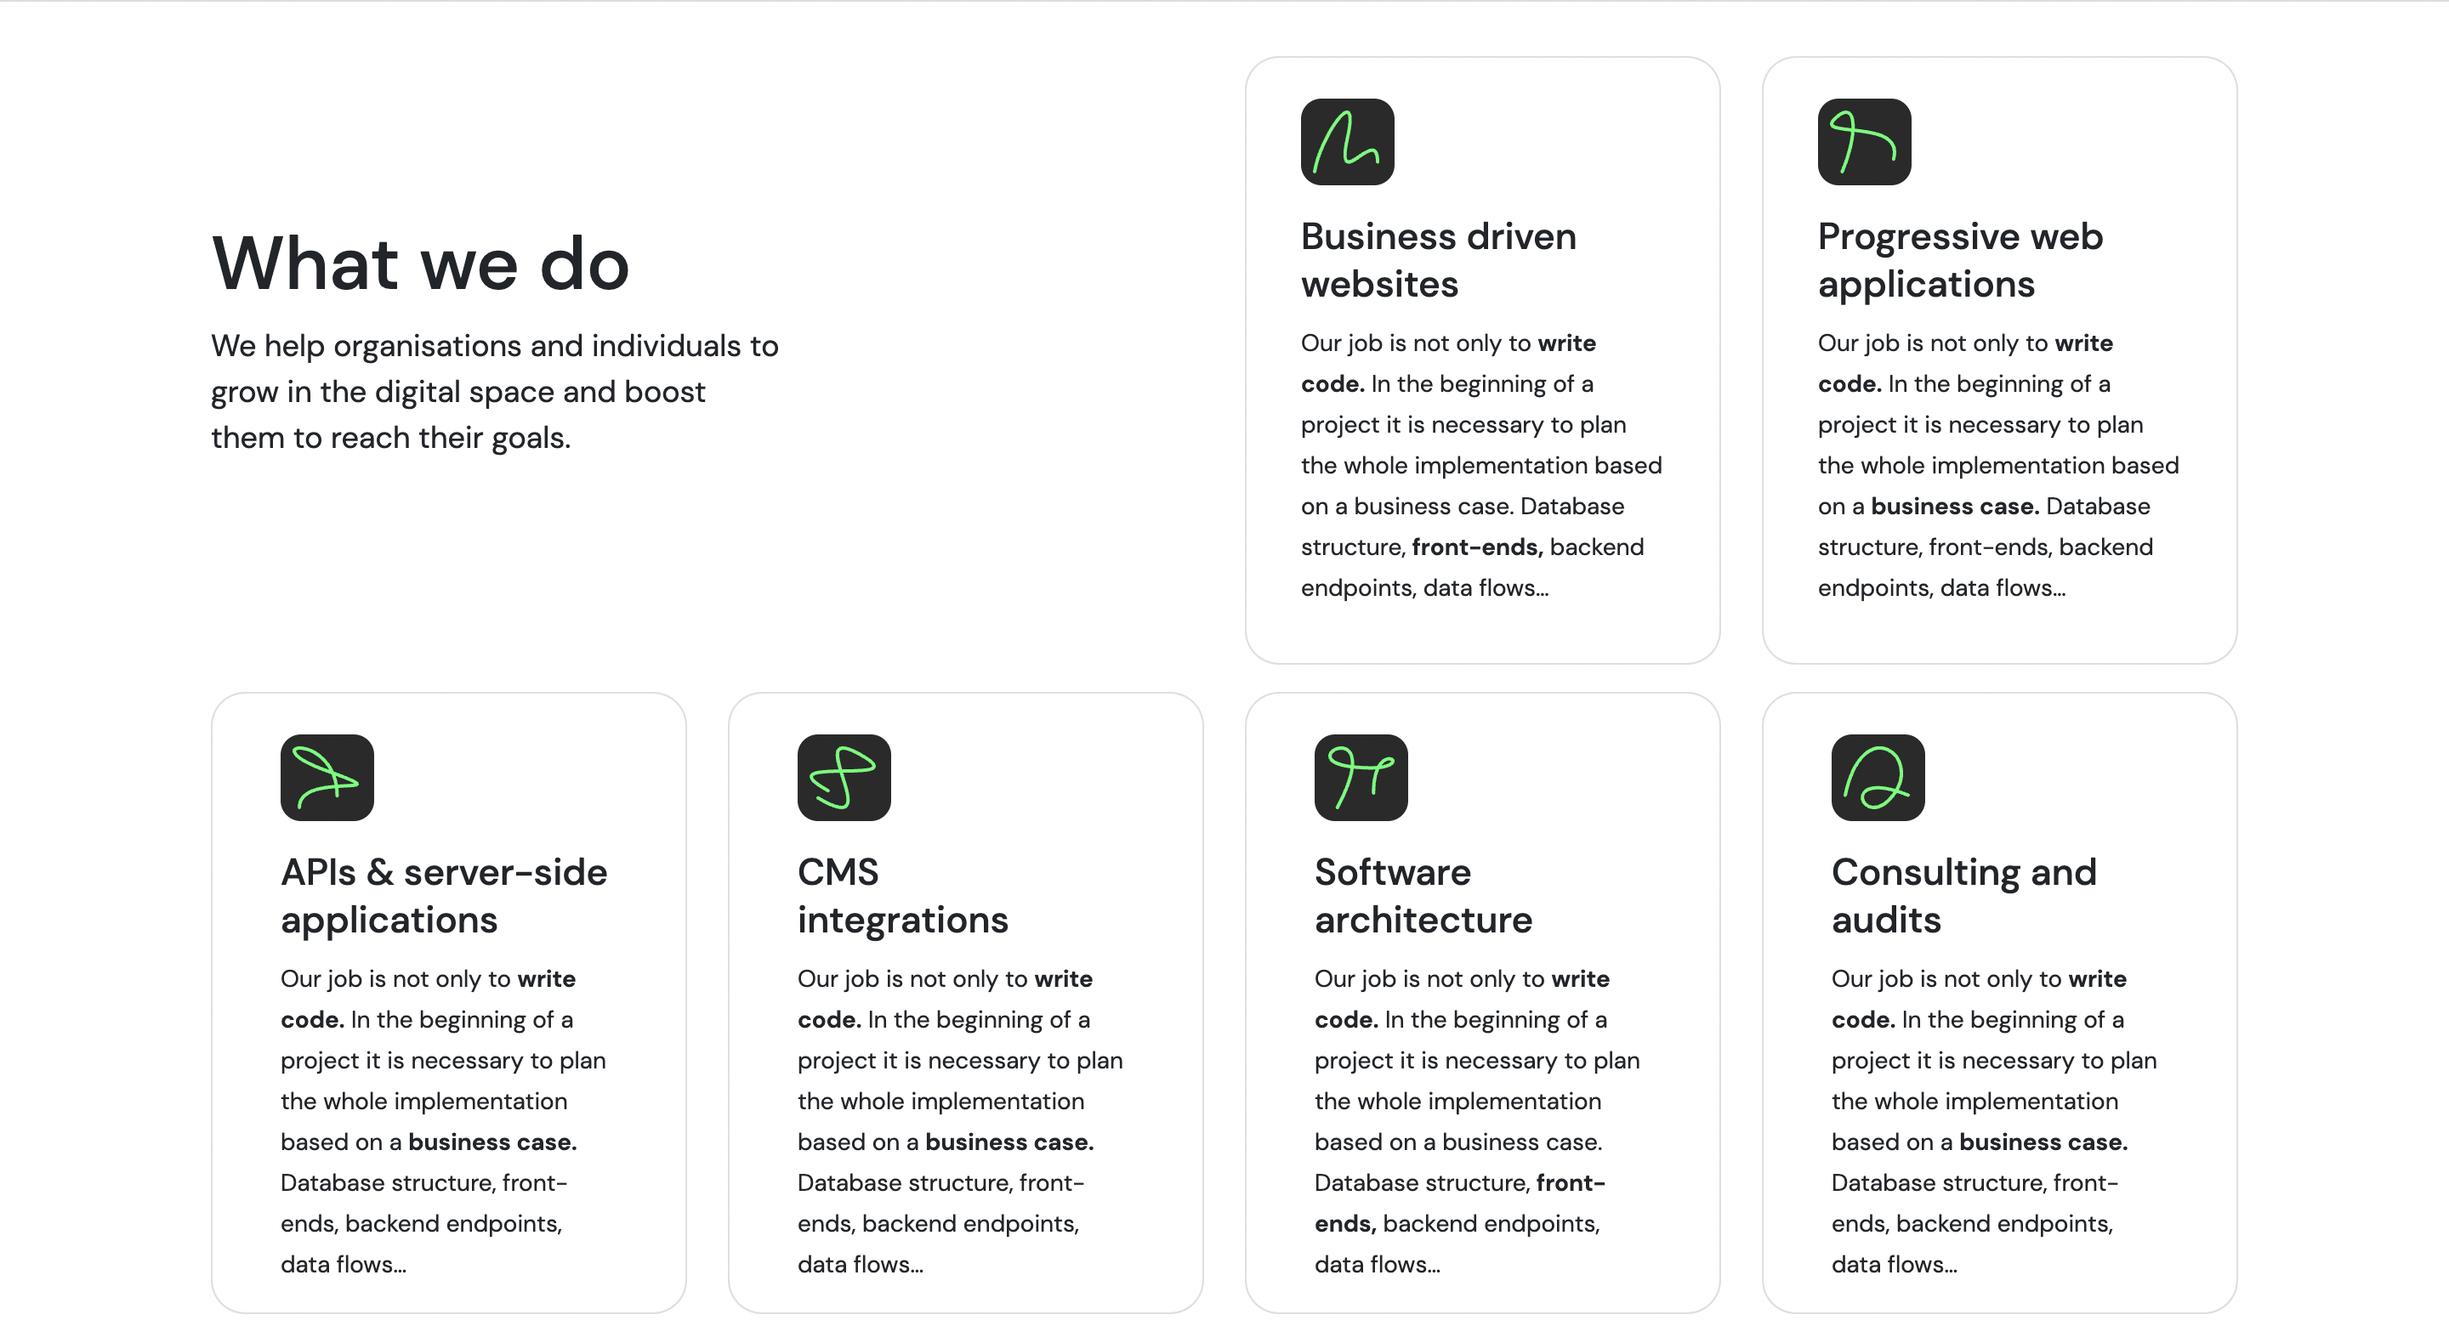
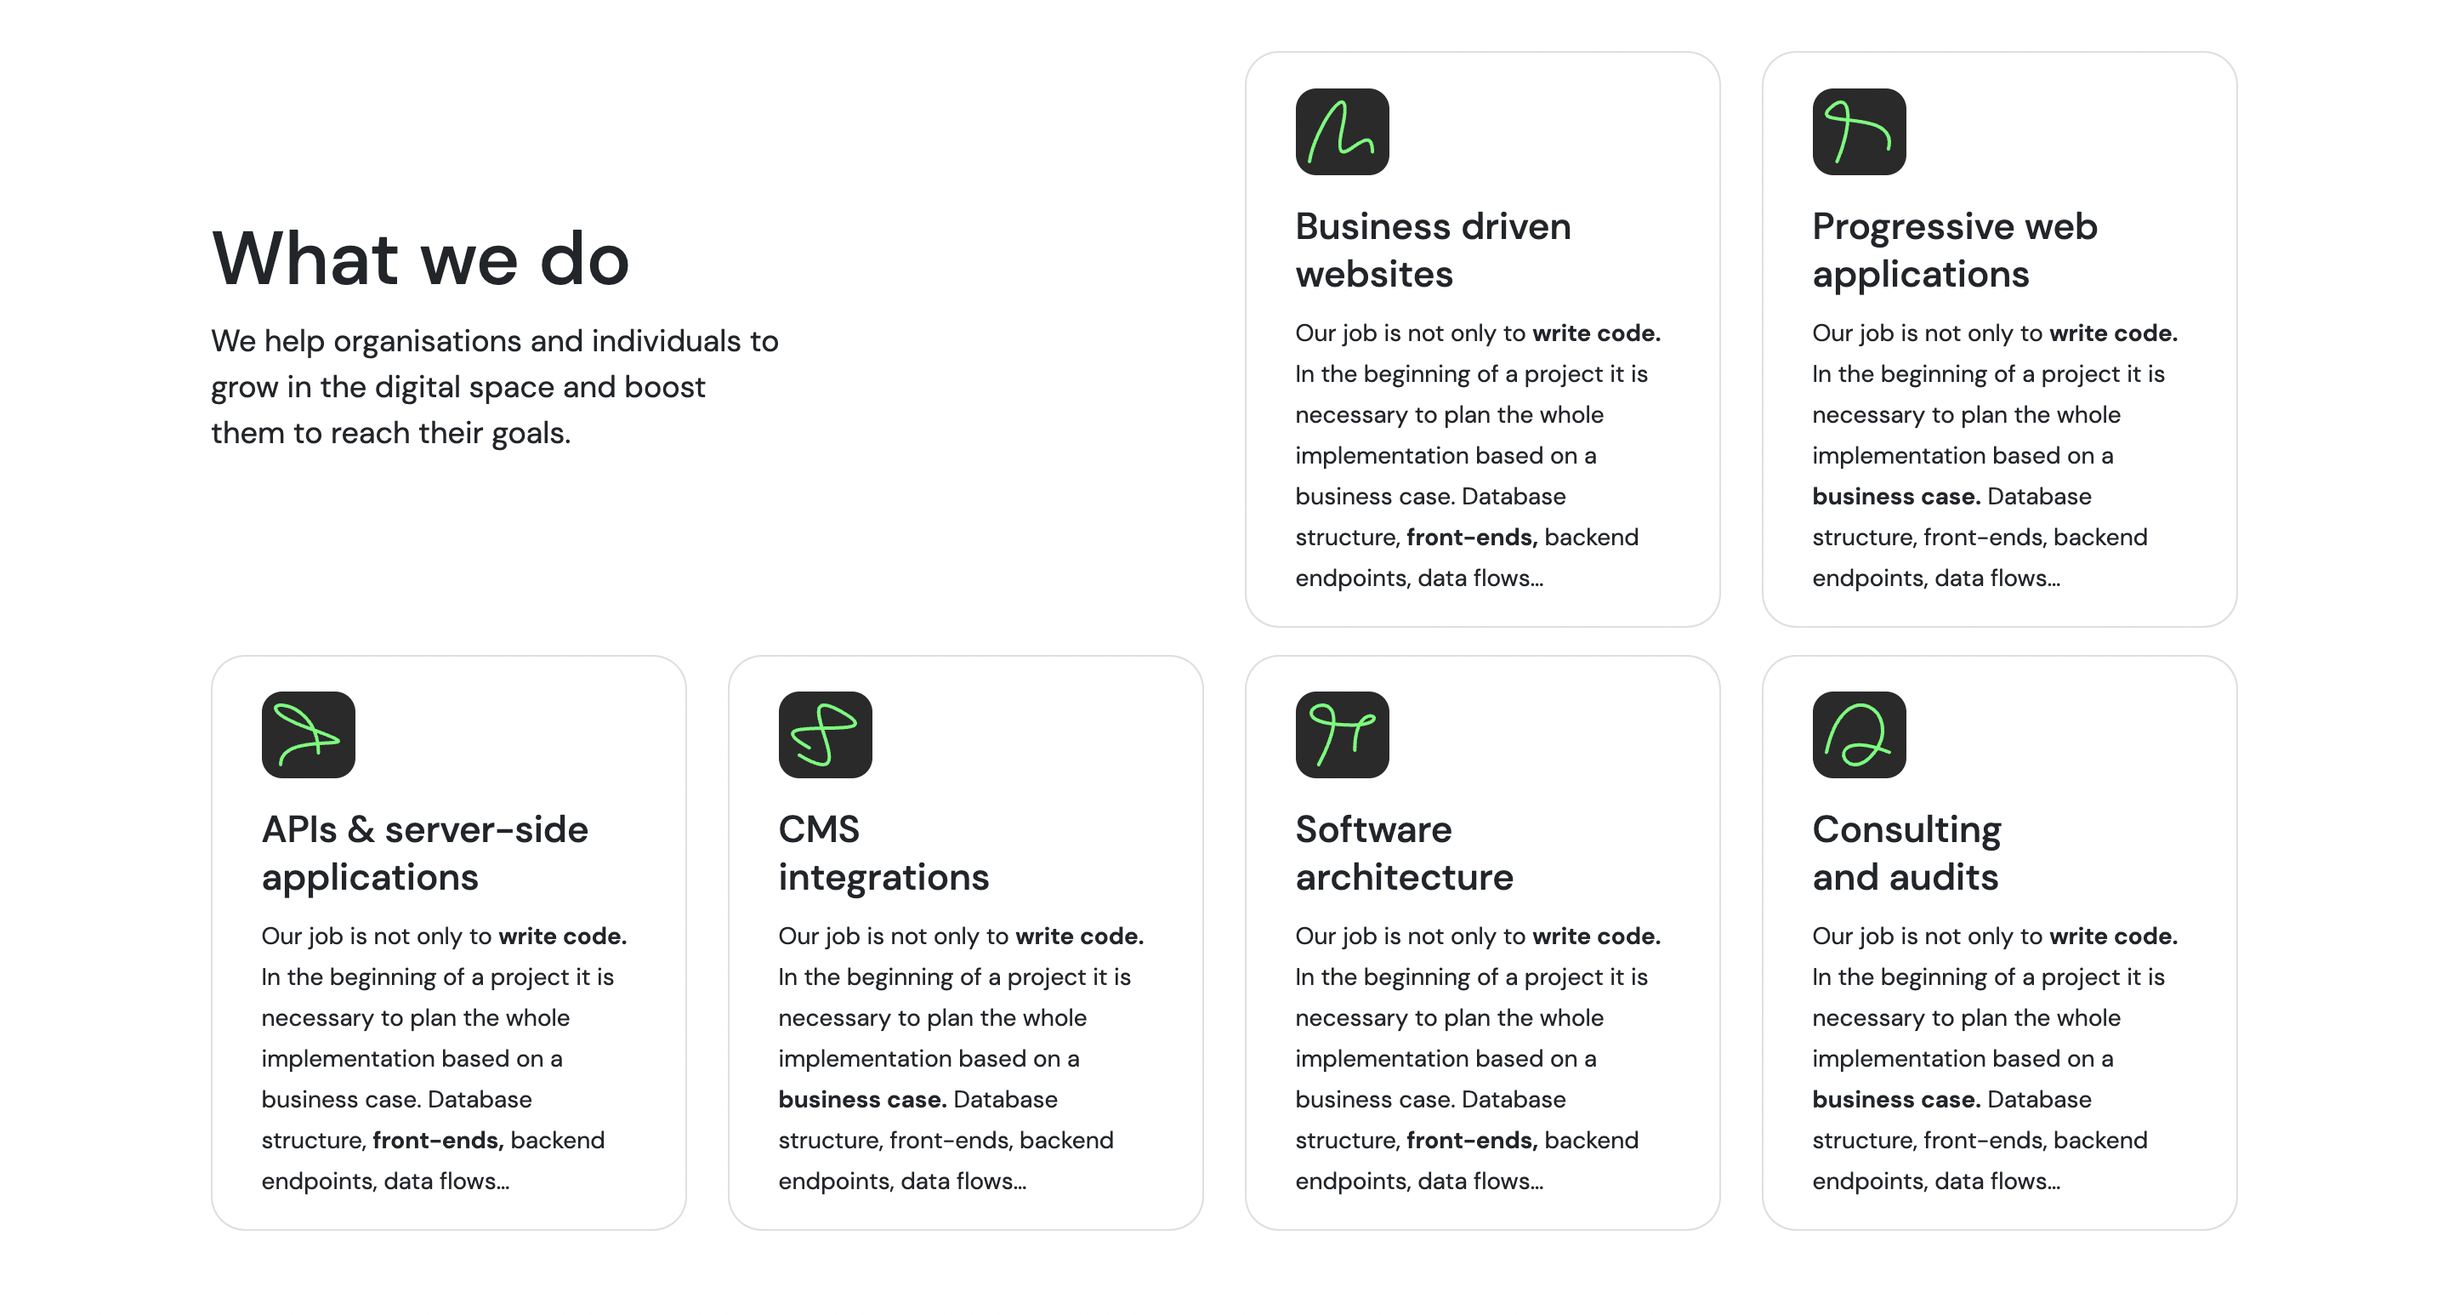
Design style fix

diff --git a/index.html b/index.html
@@ -7,10 +7,7 @@
       content="width=device-width, initial-scale=1, shrink-to-fit=no"
     />
     <title>WebToD</title>
-    <!-- Required meta tags -->
     <link rel="stylesheet" href="./css/style.css" />
-    <!-- Bootstrap CSS -->
-    <!-- CSS only -->
     <link
       href="https://cdn.jsdelivr.net/npm/bootstrap@5.1.3/dist/css/bootstrap.min.css"
       rel="stylesheet"
@@ -20,7 +17,7 @@
   </head>
   <body>
     <section class="container">
-      <div class="row pb-3 gy-3 mt-3 flex-wrap">
+      <div class="row pb-3 gy-3 mt-3 mb-3 flex-wrap">
         <div class="col-12 col-md-6 col-xl-6 pt-md-5">
           <div class="pt-xxl-5 heading">
             <h2 class="heading-title">What we do</h2>
@@ -31,126 +28,189 @@
           </div>
         </div>
         <div class="col-12 col-md-6 col-xxl-3 d-flex">
-          <div class="card p-3 flex-fill">
+          <div class="card flex-fill">
             <div class="card-header bg-body border-white pb-0">
-                <div class="icon-content mb-md-3">
-                    <svg xmlns="http://www.w3.org/2000/svg" width="39" height="37" viewBox="0 0 39 37" fill="none">
-                        <path d="M38 30.2822C38 7.37899 12.588 51.1902 20.3245 16.0111C28.0611 -19.1679 4.03289 15.8613 0.999999 36" stroke="#34FF6D" stroke-width="2" stroke-linecap="round"/>
-                        </svg>               
-                </div>
+              <div class="icon-content mb-md-3">
+                <svg
+                  xmlns="http://www.w3.org/2000/svg"
+                  width="39"
+                  height="37"
+                  viewBox="0 0 39 37"
+                  fill="none"
+                >
+                  <path
+                    d="M38 30.2822C38 7.37899 12.588 51.1902 20.3245 16.0111C28.0611 -19.1679 4.03289 15.8613 0.999999 36"
+                    stroke="#34FF6D"
+                    stroke-width="2"
+                    stroke-linecap="round"
+                  />
+                </svg>
+              </div>
               <h4 class="card-title">Business driven websites</h4>
             </div>
             <div class="card-body pt-0">
               <p class="card-text">
-                Our job is not only to <span>write code.</span> In the beginning of a
-                project it is necessary to plan the whole implementation based
-                on a business case. Database structure,
+                Our job is not only to <span>write code.</span> In the beginning
+                of a project it is necessary to plan the whole implementation
+                based on a business case. Database structure,
                 <span>front-ends,</span> backend endpoints, data flows…
               </p>
             </div>
           </div>
         </div>
         <div class="col-12 col-md-6 col-xxl-3 d-flex">
-          <div class="card p-3 flex-fill ">
+          <div class="card flex-fill">
             <div class="card-header bg-body border-white pb-0">
-                <div class="icon-content mb-md-3">
-                    <svg xmlns="http://www.w3.org/2000/svg" width="39" height="37" viewBox="0 0 39 37" fill="none">
-                        <path d="M37.4395 28.5879C44.0655 3.72908 -10.5163 17.1904 3.22926 4.47774C16.9748 -8.23497 15.7196 16.5648 7.20849 36" stroke="#34FF6D" stroke-width="2" stroke-linecap="round"/>
-                    </svg>               
-                </div>
+              <div class="icon-content mb-md-3">
+                <svg
+                  xmlns="http://www.w3.org/2000/svg"
+                  width="39"
+                  height="37"
+                  viewBox="0 0 39 37"
+                  fill="none"
+                >
+                  <path
+                    d="M37.4395 28.5879C44.0655 3.72908 -10.5163 17.1904 3.22926 4.47774C16.9748 -8.23497 15.7196 16.5648 7.20849 36"
+                    stroke="#34FF6D"
+                    stroke-width="2"
+                    stroke-linecap="round"
+                  />
+                </svg>
+              </div>
               <h4 class="card-title">Progressive web applications</h4>
             </div>
             <div class="card-body pt-0">
               <p class="card-text">
-                Our job is not only to <span>write code.</span> In the beginning of a
-                project it is necessary to plan the whole implementation based
-                on a <span>business case.</span> Database structure, front-ends,
-                backend endpoints, data flows…
+                Our job is not only to <span>write code.</span> In the beginning
+                of a project it is necessary to plan the whole implementation
+                based on a <span>business case.</span> Database structure,
+                front-ends, backend endpoints, data flows…
               </p>
             </div>
           </div>
         </div>
-      <!-- </div> -->
-      <!-- <div class="row gy-3 pb-3"> -->
         <div class="col-12 col-md-6 col-xxl-3 d-flex">
-          <div class="card pt-3 ps-4 pe-4 flex-fill">
+          <div class="card flex-fill">
             <div class="card-header bg-body border-white pb-0">
-                <div class="icon-content mb-md-3">
-                    <svg xmlns="http://www.w3.org/2000/svg" width="39" height="37" viewBox="0 0 39 37" fill="none">
-                        <path d="M26.2296 29.1538C26.2296 -9.32424 -26.578 -2.31967 20.6055 14.5682C67.7889 31.4561 4.03212 13.8299 4.03212 36" stroke="#34FF6D" stroke-width="2" stroke-linecap="round"/>
-                        </svg>               
-                </div>
+              <div class="icon-content mb-md-3">
+                <svg
+                  xmlns="http://www.w3.org/2000/svg"
+                  width="39"
+                  height="37"
+                  viewBox="0 0 39 37"
+                  fill="none"
+                >
+                  <path
+                    d="M26.2296 29.1538C26.2296 -9.32424 -26.578 -2.31967 20.6055 14.5682C67.7889 31.4561 4.03212 13.8299 4.03212 36"
+                    stroke="#34FF6D"
+                    stroke-width="2"
+                    stroke-linecap="round"
+                  />
+                </svg>
+              </div>
               <h4 class="card-title">APIs & server-side applications</h4>
             </div>
             <div class="card-body pt-0">
               <p class="card-text">
-                Our job is not only to <span>write code.</span> In the beginning of a
-                project it is necessary to plan the whole implementation based
-                on a <span>business case.</span> Database structure, front-ends,
-                backend endpoints, data flows…
-              </p>
-            </div>
-          </div>
-        </div>
-        <div class="col-12 col-md-6 col-xxl-3 d-flex">
-          <div class="card pt-3 ps-4 pe-4 flex-fill">
-            <div class="card-header bg-body border-white pb-0">
-                <div class="icon-content mb-md-3">
-                    <svg xmlns="http://www.w3.org/2000/svg" width="39" height="37" viewBox="0 0 39 37" fill="none">
-                        <path d="M5.00913 30.3918C49.7243 56.7314 -9.97181 -19.7234 32.7814 6.60319C59.5665 23.1107 -27.3956 4.85884 10.9123 26.1019" stroke="#34FF6D" stroke-width="2" stroke-linecap="round"/>
-                    </svg>               
-                </div>
-                <h4 class="card-title">CMS <span class="cms">integrations </span></h4>
-            </div>
-            <div class="card-body pt-0">
-              <p class="card-text">
-                Our job is not only to <span>write code.</span> In the beginning of a
-                project it is necessary to plan the whole implementation based
-                on a <span>business case.</span> Database structure, front-ends,
-                backend endpoints, data flows…
-              </p>
-            </div>
-          </div>
-        </div>
-        <div class="col-12 col-md-6 col-xxl-3 d-flex">
-          <div class="card pt-3 ps-4 pe-4 flex-fill">
-            <div class="card-header bg-body border-white pb-0">
-                <div class="icon-content mb-md-3">
-                    <svg xmlns="http://www.w3.org/2000/svg" width="41" height="37" viewBox="0 0 41 37" fill="none">
-                        <path d="M27.6273 27.5668C27.6271 -9 58.5817 15.7618 18.3543 12.3585C-25.9588 9.43488 37.2804 -22.6123 6.38492 36" stroke="#34FF6D" stroke-width="2" stroke-linecap="round"/>
-                    </svg>                
-                </div>
-              <h4 class="card-title">
-                Software
-                architecture
-              </h4>
-            </div>
-            <div class="card-body pt-0">
-              <p class="card-text">
-                Our job is not only to <span>write code.</span> In the beginning of a
-                project it is necessary to plan the whole implementation based
-                on a business case. Database structure,
+                Our job is not only to <span>write code.</span> In the beginning
+                of a project it is necessary to plan the whole implementation
+                based on a business case. Database structure,
                 <span>front-ends,</span> backend endpoints, data flows…
               </p>
             </div>
           </div>
         </div>
         <div class="col-12 col-md-6 col-xxl-3 d-flex">
-          <div class="card pt-3 ps-4 pe-4 flex-fill">
+          <div class="card flex-fill">
             <div class="card-header bg-body border-white pb-0">
-                <div class="icon-content mb-md-3">
-                    <svg xmlns="http://www.w3.org/2000/svg" width="39" height="37" viewBox="0 0 39 37" fill="none">
-                        <path d="M1 28.7565C11.4291 -20.2294 46.8488 5.97823 29.1793 28.7566C11.5099 51.535 -4.18871 11.7566 38 28.7566" stroke="#34FF6D" stroke-width="2" stroke-linecap="round"/>
-                    </svg>               
-                </div>
-              <h4 class="card-title">Consulting and audits</h4>
+              <div class="icon-content mb-md-3">
+                <svg
+                  xmlns="http://www.w3.org/2000/svg"
+                  width="39"
+                  height="37"
+                  viewBox="0 0 39 37"
+                  fill="none"
+                >
+                  <path
+                    d="M5.00913 30.3918C49.7243 56.7314 -9.97181 -19.7234 32.7814 6.60319C59.5665 23.1107 -27.3956 4.85884 10.9123 26.1019"
+                    stroke="#34FF6D"
+                    stroke-width="2"
+                    stroke-linecap="round"
+                  />
+                </svg>
+              </div>
+              <h4 class="card-title">
+                CMS <span class="cms">integrations </span>
+              </h4>
             </div>
             <div class="card-body pt-0">
               <p class="card-text">
-                Our job is not only to <span>write code.</span> In the beginning of a
-                project it is necessary to plan the whole implementation based
-                on a <span>business case.</span> Database structure, front-ends,
-                backend endpoints, data flows…
+                Our job is not only to <span>write code.</span> In the beginning
+                of a project it is necessary to plan the whole implementation
+                based on a <span>business case.</span> Database structure,
+                front-ends, backend endpoints, data flows…
+              </p>
+            </div>
+          </div>
+        </div>
+        <div class="col-12 col-md-6 col-xxl-3 d-flex">
+          <div class="card flex-fill">
+            <div class="card-header bg-body border-white pb-0">
+              <div class="icon-content mb-md-3">
+                <svg
+                  xmlns="http://www.w3.org/2000/svg"
+                  width="41"
+                  height="37"
+                  viewBox="0 0 41 37"
+                  fill="none"
+                >
+                  <path
+                    d="M27.6273 27.5668C27.6271 -9 58.5817 15.7618 18.3543 12.3585C-25.9588 9.43488 37.2804 -22.6123 6.38492 36"
+                    stroke="#34FF6D"
+                    stroke-width="2"
+                    stroke-linecap="round"
+                  />
+                </svg>
+              </div>
+              <h4 class="card-title">Software <span class="cms">architecture</span></h4>
+            </div>
+            <div class="card-body pt-0">
+              <p class="card-text">
+                Our job is not only to <span>write code.</span> In the beginning
+                of a project it is necessary to plan the whole implementation
+                based on a business case. Database structure,
+                <span>front-ends,</span> backend endpoints, data flows…
+              </p>
+            </div>
+          </div>
+        </div>
+        <div class="col-12 col-md-6 col-xxl-3 d-flex">
+          <div class="card flex-fill">
+            <div class="card-header bg-body border-white pb-0">
+              <div class="icon-content mb-md-3">
+                <svg
+                  xmlns="http://www.w3.org/2000/svg"
+                  width="39"
+                  height="37"
+                  viewBox="0 0 39 37"
+                  fill="none"
+                >
+                  <path
+                    d="M1 28.7565C11.4291 -20.2294 46.8488 5.97823 29.1793 28.7566C11.5099 51.535 -4.18871 11.7566 38 28.7566"
+                    stroke="#34FF6D"
+                    stroke-width="2"
+                    stroke-linecap="round"
+                  />
+                </svg>
+              </div>
+              <h4 class="card-title">Consulting<span class="cms">and audits</span></h4>
+            </div>
+            <div class="card-body pt-0">
+              <p class="card-text">
+                Our job is not only to <span>write code.</span> In the beginning
+                of a project it is necessary to plan the whole implementation
+                based on a <span>business case.</span> Database structure,
+                front-ends, backend endpoints, data flows…
               </p>
             </div>
           </div>

diff --git a/css/style.css b/css/style.css
@@ -10,6 +10,7 @@ body {
 }
 
 .card {
+  padding: 0.8rem 0.8rem 0 0.8rem;
   border-radius: 20px !important;
 }
 

diff --git a/README.md b/README.md
@@ -31,7 +31,7 @@ Use of Grid and Flex in Designing. Media Query, Positioning and floating of elem
 
 - Github: [@hemant-soni-vst-au4](https://github.com/hemant-soni-vst-au4)
 - Twitter: [@Hemants63203059](https://twitter.com/Hemants63203059)
-- Linkedin: [linkedin](https://www.linkedin.com/in/hemant-soni-97427b193/)
+- Linkedin: [linkedin](https://www.linkedin.com/in/hemantso/)
 
 ## 🤝 Contributing
 
